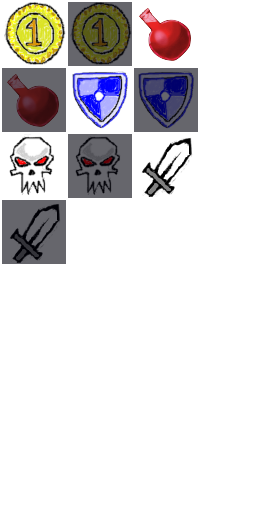
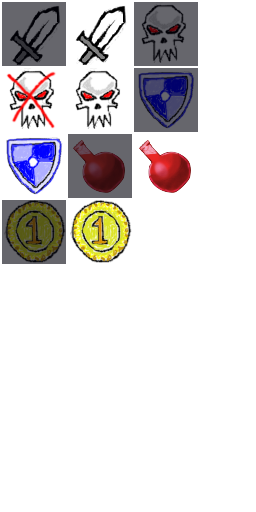
HPが0を切ると×印を敵の上に出すようにした。戻ったりしてもいい感じに。

Changed region(s): [[0.0, 0.0, 0.7812, 0.5312], [0.5312, 0.25, 0.75, 0.4062]]

diff --git a/diablo/Enemy.cpp b/diablo/Enemy.cpp
@@ -13,10 +13,6 @@ Enemy::Enemy(){
     _connectType = 1;
     strength = new Strength(5);
     defense = new Defense(5);
-    
-    //CCLog("%s",CCString::createWithFormat("%d", hp->getCurrentHp())->getCString());
-    
-    
 }
 
 Enemy* Enemy::createWithSpriteFrameName(const char *pszSpriteFrameName){
@@ -48,6 +44,20 @@ void Enemy::actionGotoRemoved(Player* player){
     hp->reduce(player->getTotalDamage());
 }
 
+void Enemy::actionTouched(Player* player){
+    if(hp->getCurrentHp() - player->getTotalDamage() <= 0){
+        this->setKilledImage();
+    } else {
+        this->switchOn();
+    }
+}
+
+void Enemy::actionUntouched(Player* player){
+    if(hp->getCurrentHp() - player->getTotalDamage() > 0){
+        this->switchOn();
+    }
+}
+
 // override
 void Enemy::setRemoved(Player* player){
     // hpが今回の攻撃で0を下回る時だけ_willRemovedをたてる。
@@ -55,6 +65,17 @@ void Enemy::setRemoved(Player* player){
     if(hp->getCurrentHp() - player->getTotalDamage() <= 0){
         _willRemoved = true;
     }
+}
+
+
+void Enemy::setKilledImage(){
+    std::string frameName;
+    frameName = (this->_panelName + "_batsu.png").c_str();
+    
+    CCSpriteFrame* _frame;
+    _frame = CCSpriteFrameCache::sharedSpriteFrameCache()->spriteFrameByName(frameName.c_str());
+    this->setTexture(_frame->getTexture());
+    this->setTextureRect(_frame->getRect(), false, CCSize(_size, _size));
 }
 
 void Enemy::update(){

diff --git a/diablo/TouchedPanels.cpp b/diablo/TouchedPanels.cpp
@@ -33,16 +33,29 @@ void TouchedPanels::push(PanelSprite* panel, Player* player){
     if(this->containsObject((CCObject*) panel)){
         return;
     }
-    
+    PanelSprite* p = NULL;
+    CCObject* targetObject = NULL;
     panel->actionTouched(player);
+    CCARRAY_FOREACH(this, targetObject){
+        p = (PanelSprite*) targetObject;
+        p->actionTouched(player); //個々までの部分も再実行
+    }
+    
+    
     this->addObject(panel);
 }
 
 //タッチから削除
 void TouchedPanels::pop(Player* player){
+    PanelSprite* p = NULL;
+    CCObject* targetObject = NULL;
     PanelSprite* panel = (PanelSprite*) this->lastObject();
     panel->actionUntouched(player);
     this->removeObject(panel);
+    CCARRAY_FOREACH(this, targetObject){
+        p = (PanelSprite*) targetObject;
+        p->actionTouched(player); //個々までの部分も再実行
+    }
 }
 
 void TouchedPanels::popTo(PanelSprite *panel, Player* player){

diff --git a/diablo/Sword.cpp b/diablo/Sword.cpp
@@ -12,6 +12,7 @@
 Sword::Sword(){
     damageValue = 20;
     _connectType = 1;
+    _alreadyActionTouched = false;
 }
 
 Sword* Sword::createWithSpriteFrameName(const char *pszSpriteFrameName){
@@ -30,13 +31,18 @@ Sword* Sword::createWithSpriteFrameName(const char *pszSpriteFrameName){
 // override
 // タッチされたときにやること:playerのaccumDamageに追加
 void Sword::actionTouched(Player* player){
+    if(_alreadyActionTouched){
+        return;
+    }
     player->pushDamage(damageValue);
+    _alreadyActionTouched = true;
 }
 
 // override
 // タッチが外れたときにやること:playerのaccumDamageをpop
 void Sword::actionUntouched(Player* player){
     player->popDamage();
+    _alreadyActionTouched = false;
 }
 
 Sword::~Sword(){

diff --git a/diablo/PanelSprite.h b/diablo/PanelSprite.h
@@ -19,13 +19,14 @@ class PanelSprite : public cocos2d::CCSprite
     float _deltaY;
     float _velocity;
     bool _isOn; //on状態か
-    float _size;
     void _switchOn(bool isOn);
     CCDictionary* _displayedDirection;
     CCArray* _directionSprites; //方向の絵を保持する。
 protected:
     bool _willRemoved; //消去されるflag
+    bool _alreadyActionTouched;
     int _connectType; //つながるかどうかを保存する。
+    float _size;
 public:
     std::string _panelName;
     CCRect _touchRect;

diff --git a/diablo/Enemy.h b/diablo/Enemy.h
@@ -29,6 +29,9 @@ public:
     void attack(Player* player); //Playerも攻撃対象とかの抽象クラスにするかもね。
     void setRemoved(Player* player);
     void actionGotoRemoved(Player* player);
+    void actionTouched(Player* player);
+    void actionUntouched(Player* player);
+    void setKilledImage();
     void update();
     Enemy();
     ~Enemy(void);

diff --git a/diablo/PanelSprite.cpp b/diablo/PanelSprite.cpp
@@ -148,6 +148,7 @@ void PanelSprite::actionRemoved(Player* player){
 }
 
 void PanelSprite::actionTouched(Player* player){
+    //何回呼ばれても同じになるように作る。
 }
 
 void PanelSprite::actionUntouched(Player* player){
